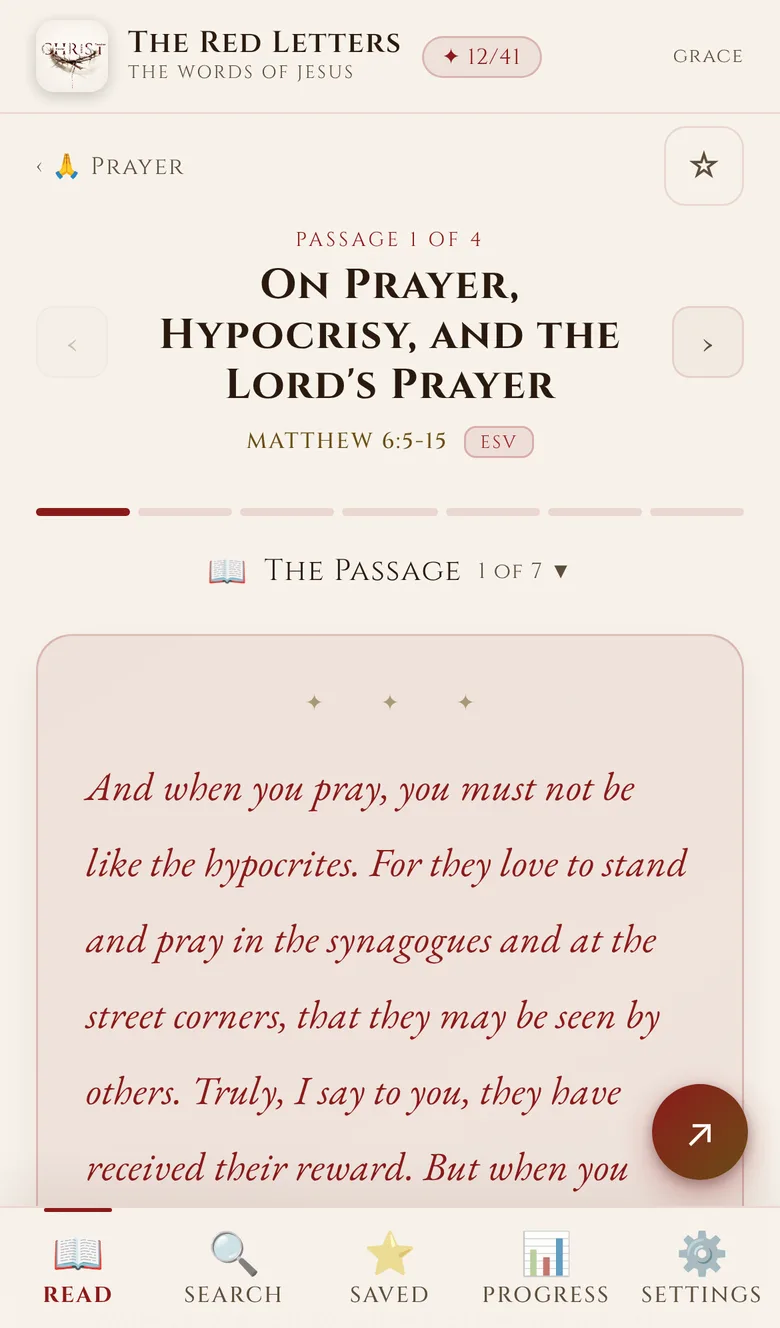
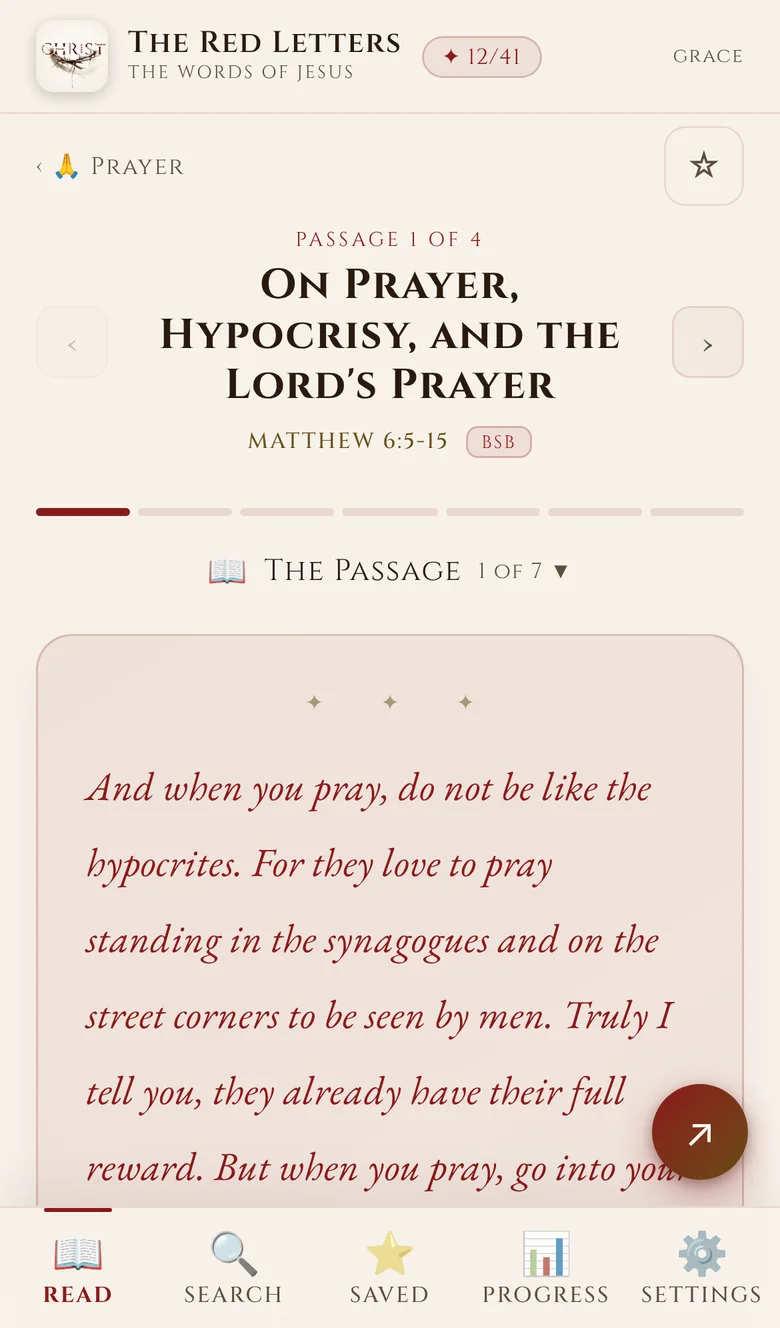
Anchored Verse and The Red Letters pages: Berean Standard Bible
Both apps now carry the BSB (public domain) in place of ESV/NKJV/NIV. Page copy,
FAQs, search data, sample verses, app screenshots and the Scripture Credits table
say so, and mention the link out to esv.org.

Claude-Session: https://claude.ai/code/session_016zkMqJgJcacXo898rxFWzc

diff --git a/anchored-verse.html b/anchored-verse.html
@@ -4,7 +4,7 @@
   <meta charset="UTF-8"/>
   <meta name="viewport" content="width=device-width, initial-scale=1.0"/>
   <title>Anchored Verse | Scripture for Every Emotion — Free App</title>
-  <meta name="description" content="A word for every weight your heart carries. A Feelings Wheel of 30 emotions, 394 Scripture verses, three translations. Find an anchor for whatever you're feeling — free."/>
+  <meta name="description" content="A word for every weight your heart carries. A Feelings Wheel of 30 emotions, 394 Scripture verses in the Berean Standard Bible. Find an anchor for whatever you're feeling — free."/>
   <meta name="keywords" content="emotion bible app, scripture for anxiety, bible verses for sadness, christian mental health app, bible app for emotions, scripture for fear, free bible app, anchored verse, elora radiance"/>
   <meta property="og:type" content="website"/>
   <meta property="og:url" content="https://eloraradiance.com/anchored-verse.html"/>
@@ -185,8 +185,8 @@
   <meta name="twitter:title" content="Anchored Verse | Scripture for Every Emotion" />
   <meta name="twitter:description" content="A word for every weight your heart carries. A Feelings Wheel of 30 emotions around 6 core feelings, anchored to 394 verses of Scripture. Free." />
   <meta name="twitter:image" content="https://eloraradiance.com/assets/anchored-verse-icon.png" />
-  <script type="application/ld+json">{"@context":"https://schema.org","@type":"SoftwareApplication","name":"Anchored Verse","applicationCategory":"ReferenceApplication","applicationSubCategory":"Bible Study","operatingSystem":"Web, iOS, Android","url":"https://verse.eloraradiance.com","description":"Emotion-indexed Scripture companion. A Feelings Wheel of 30 emotions around six core feelings (Sorrow, Fear, Anger, Struggle, Joy, Peace), 394 anchor verses, three translations (NKJV, ESV, NIV). Save anchors, share verse cards.","image":"https://eloraradiance.com/assets/anchored-verse-icon.png","publisher":{"@type":"Organization","name":"Elora Radiance Co.","legalName":"Elora Radiance Co. LLC"},"offers":{"@type":"Offer","price":"0","priceCurrency":"USD"},"featureList":"Feelings Wheel with 30 emotions around 6 core feelings, list view, 394 anchor verses, three translations (NKJV ESV NIV), saved anchors kept on your device, shareable verse cards with light and dark themes","screenshot":["https://eloraradiance.com/assets/screens/av-1-wheel.webp","https://eloraradiance.com/assets/screens/av-2-anxious.webp","https://eloraradiance.com/assets/screens/av-3-grateful.webp","https://eloraradiance.com/assets/screens/av-4-list.webp"]}</script>
-  <script type="application/ld+json">{"@context": "https://schema.org", "@type": "FAQPage", "mainEntity": [{"@type": "Question", "name": "Is it really completely free?", "acceptedAnswer": {"@type": "Answer", "text": "Yes — no credit card, no subscription, no paywall, no account required. Open the app and start using it immediately. Save anchors and share cards work without sign-up."}}, {"@type": "Question", "name": "Which translations does it include?", "acceptedAnswer": {"@type": "Answer", "text": "Three side-by-side translations: NKJV, ESV, and NIV. Switch at the top of any screen and your selection carries through every verse you read."}}, {"@type": "Question", "name": "How is this different from a regular Bible app?", "acceptedAnswer": {"@type": "Answer", "text": "Most Bible apps organize by book and chapter. Anchored Verse organizes by emotion — so when you're actually feeling anxious, lonely, grateful, or repentant, you don't have to know where to look. Pick the feeling, get the Scripture."}}, {"@type": "Question", "name": "How is the Feelings Wheel organized?", "acceptedAnswer": {"@type": "Answer", "text": "Six core emotions sit at the center, and each of the 30 feelings sits around its core: Sorrow (sad, grieving, lonely, hurt, rejected, discouraged, weary), Fear (anxious, stressed, fearful, overwhelmed, insecure), Anger (angry, frustrated, irritated, impatient, jealous), Struggle (confused, tempted, ashamed, repentant), Joy (happy, grateful, loved, hopeful) and Peace (peaceful, content, faith-filled, bold, forgiving). Tap a core to narrow it down, or tap a feeling to go straight to Scripture. A simple list view is one tap away."}}, {"@type": "Question", "name": "Can I save verses for later?", "acceptedAnswer": {"@type": "Answer", "text": "Yes. Tap Save anchor on any verse to keep it in your Saved anchors, your own growing collection of the Scriptures that have spoken to you, kept on your device. Every saved anchor includes a share button."}}, {"@type": "Question", "name": "Does it work on mobile?", "acceptedAnswer": {"@type": "Answer", "text": "Yes — any browser on iPhone, Android, iPad, or desktop. You can also add it to your home screen for an app-like experience. No download from any app store required."}}]}</script>
+  <script type="application/ld+json">{"@context":"https://schema.org","@type":"SoftwareApplication","name":"Anchored Verse","applicationCategory":"ReferenceApplication","applicationSubCategory":"Bible Study","operatingSystem":"Web, iOS, Android","url":"https://verse.eloraradiance.com","description":"Emotion-indexed Scripture companion. A Feelings Wheel of 30 emotions around six core feelings (Sorrow, Fear, Anger, Struggle, Joy, Peace), 394 anchor verses in the Berean Standard Bible. Save anchors, share verse cards.","image":"https://eloraradiance.com/assets/anchored-verse-icon.png","publisher":{"@type":"Organization","name":"Elora Radiance Co.","legalName":"Elora Radiance Co. LLC"},"offers":{"@type":"Offer","price":"0","priceCurrency":"USD"},"featureList":"Feelings Wheel with 30 emotions around 6 core feelings, list view, 394 anchor verses in the Berean Standard Bible, saved anchors kept on your device, shareable verse cards with light and dark themes","screenshot":["https://eloraradiance.com/assets/screens/av-1-wheel.webp","https://eloraradiance.com/assets/screens/av-2-anxious.webp","https://eloraradiance.com/assets/screens/av-3-grateful.webp","https://eloraradiance.com/assets/screens/av-4-list.webp"]}</script>
+  <script type="application/ld+json">{"@context": "https://schema.org", "@type": "FAQPage", "mainEntity": [{"@type": "Question", "name": "Is it really completely free?", "acceptedAnswer": {"@type": "Answer", "text": "Yes — no credit card, no subscription, no paywall, no account required. Open the app and start using it immediately. Save anchors and share cards work without sign-up."}}, {"@type": "Question", "name": "Which translation does it use?", "acceptedAnswer": {"@type": "Answer", "text": "The Berean Standard Bible (BSB): a modern, readable translation that has been released to the public domain. Every verse also has a link that opens the same passage on esv.org if you would like to read it in the ESV."}}, {"@type": "Question", "name": "How is this different from a regular Bible app?", "acceptedAnswer": {"@type": "Answer", "text": "Most Bible apps organize by book and chapter. Anchored Verse organizes by emotion — so when you're actually feeling anxious, lonely, grateful, or repentant, you don't have to know where to look. Pick the feeling, get the Scripture."}}, {"@type": "Question", "name": "How is the Feelings Wheel organized?", "acceptedAnswer": {"@type": "Answer", "text": "Six core emotions sit at the center, and each of the 30 feelings sits around its core: Sorrow (sad, grieving, lonely, hurt, rejected, discouraged, weary), Fear (anxious, stressed, fearful, overwhelmed, insecure), Anger (angry, frustrated, irritated, impatient, jealous), Struggle (confused, tempted, ashamed, repentant), Joy (happy, grateful, loved, hopeful) and Peace (peaceful, content, faith-filled, bold, forgiving). Tap a core to narrow it down, or tap a feeling to go straight to Scripture. A simple list view is one tap away."}}, {"@type": "Question", "name": "Can I save verses for later?", "acceptedAnswer": {"@type": "Answer", "text": "Yes. Tap Save anchor on any verse to keep it in your Saved anchors, your own growing collection of the Scriptures that have spoken to you, kept on your device. Every saved anchor includes a share button."}}, {"@type": "Question", "name": "Does it work on mobile?", "acceptedAnswer": {"@type": "Answer", "text": "Yes — any browser on iPhone, Android, iPad, or desktop. You can also add it to your home screen for an app-like experience. No download from any app store required."}}]}</script>
   <!-- Home Screen / PWA icons -->
   <link rel="icon" type="image/png" href="/assets/app-icon.png" />
   <link rel="apple-touch-icon" href="/assets/app-icon.png" />
@@ -233,7 +233,7 @@
     <div class="hero-stats">
       <div><span class="stat-num">30</span><span class="stat-lbl">Emotions</span></div>
       <div><span class="stat-num">394</span><span class="stat-lbl">Anchor Verses</span></div>
-      <div><span class="stat-num">3</span><span class="stat-lbl">Translations</span></div>
+      <div><span class="stat-num">6</span><span class="stat-lbl">Core Feelings</span></div>
     </div>
   </section>
 
@@ -242,7 +242,7 @@
     <div class="section-inner">
       <p class="eyebrow reveal">Inside the App</p>
       <h2 class="s-title reveal" id="inside-title">Take a Look Inside</h2>
-      <p class="s-body reveal">Tap how you feel. Get a verse and a short reflection for that moment, in the NKJV, ESV or NIV.</p>
+      <p class="s-body reveal">Tap how you feel. Get a verse and a short reflection for that moment, from the Berean Standard Bible.</p>
       <ul class="shots" tabindex="0" aria-label="Anchored Verse screenshots">
         <li class="shot reveal">
           <div class="shot-frame"><img src="assets/screens/av-1-wheel.webp" width="780" height="1328" loading="lazy" decoding="async" alt="Anchored Verse app screen: The Feelings Wheel. 30 feelings across six core emotions."/></div>
@@ -275,10 +275,10 @@
   <div style="max-width:640px;margin:0 auto;padding:0 24px 80px;">
     <div class="verse-preview reveal">
       <div class="verse-emotion">Anxious</div>
-      <p class="verse-text">“Do not be anxious about anything, but in everything by prayer and supplication with thanksgiving let your requests be made known to God.”</p>
+      <p class="verse-text">“Be anxious for nothing, but in everything, by prayer and petition, with thanksgiving, present your requests to God.”</p>
       <div class="verse-meta">
         <span class="verse-ref">Philippians 4:6</span>
-        <span class="verse-trans">ESV</span>
+        <span class="verse-trans">BSB</span>
       </div>
       <p class="verse-reflect">Anxiety lives in tomorrow. Scripture keeps pulling you back to today, where God actually is.</p>
     </div>
@@ -348,7 +348,7 @@
       <div class="features-list">
         <div class="feature reveal d1"><span class="feature-icon">🫀</span><div><div class="feature-name">Pick the Feeling</div><div class="feature-desc">Start at the center of the Feelings Wheel with the core emotion, then tap the word for what you're actually carrying. No journaling, no mood scale. Prefer a list? Switch with one tap.</div></div></div>
         <div class="feature reveal d1"><span class="feature-icon">📖</span><div><div class="feature-name">Get the Anchor</div><div class="feature-desc">A Scripture matched to that emotion appears immediately — with a short reflection that doesn't just speak to the feeling, but reframes it.</div></div></div>
-        <div class="feature reveal d2"><span class="feature-icon">🔄</span><div><div class="feature-name">Three Translations</div><div class="feature-desc">NKJV, ESV, or NIV. Toggle at the top — your choice persists across every emotion, so the Word reads in the voice that resonates with you.</div></div></div>
+        <div class="feature reveal d2"><span class="feature-icon">🔄</span><div><div class="feature-name">Clear, Faithful Wording</div><div class="feature-desc">Every verse is in the Berean Standard Bible: accurate, plain, easy to take in when your mind is already full. Prefer the ESV? One tap opens the same passage on esv.org.</div></div></div>
         <div class="feature reveal d2"><span class="feature-icon">⚓</span><div><div class="feature-name">Save Your Anchors</div><div class="feature-desc">Tap Save anchor on any verse to keep it. Build your own collection of the Scriptures that have anchored you, kept on your device whenever you need to return to them.</div></div></div>
         <div class="feature reveal d3"><span class="feature-icon">↗</span><div><div class="feature-name">Share Verse Cards</div><div class="feature-desc">Tap share to generate a beautifully styled card with the verse, reference, and emotion category. Light or dark theme. Send to a friend, post to Instagram, or save the image.</div></div></div>
         <div class="feature reveal d3"><span class="feature-icon">⚡</span><div><div class="feature-name">No Account Needed</div><div class="feature-desc">Open the app and start. No sign-up, no credit card, no friction between you and the next verse you need.</div></div></div>
@@ -357,8 +357,8 @@
   </section>
 
   <div class="quote-band">
-    <p class="q-text">"I waited patiently for the Lord; he inclined to me and heard my cry. He drew me up from the pit of destruction, out of the miry bog, and set my feet upon a rock, making my steps secure."</p>
-    <p class="q-ref">Psalm 40:1–2 · ESV — This is what Anchored Verse is for.</p>
+    <p class="q-text">"I waited patiently for the LORD; He inclined to me and heard my cry. He lifted me up from the pit of despair, out of the miry clay; He set my feet upon a rock, and made my footsteps firm."</p>
+    <p class="q-ref">Psalm 40:1–2 · BSB — This is what Anchored Verse is for.</p>
   </div>
 
   <section class="cta-section">
@@ -375,7 +375,7 @@
       <h2 style="font-family:'Oswald',sans-serif;font-size:clamp(26px,4vw,40px);font-weight:700;color:var(--navy);letter-spacing:0.02em;margin-bottom:0;">FREQUENTLY ASKED</h2>
       <div class="faq-list">
         <div class="faq-item"><button class="faq-q">Is it really completely free?<span class="faq-plus">+</span></button><div class="faq-a">Yes — no credit card, no subscription, no paywall, no account required. Open the app and start using it immediately. Save anchors and share cards work without sign-up.</div></div>
-        <div class="faq-item"><button class="faq-q">Which translations does it include?<span class="faq-plus">+</span></button><div class="faq-a">Three side-by-side translations: NKJV, ESV, and NIV. Switch at the top of any screen and your selection carries through every verse you read.</div></div>
+        <div class="faq-item"><button class="faq-q">Which translation does it use?<span class="faq-plus">+</span></button><div class="faq-a">The Berean Standard Bible (BSB): a modern, readable translation that has been released to the public domain. Every verse also has a link that opens the same passage on esv.org if you would like to read it in the ESV.</div></div>
         <div class="faq-item"><button class="faq-q">How is this different from a regular Bible app?<span class="faq-plus">+</span></button><div class="faq-a">Most Bible apps organize by book and chapter. Anchored Verse organizes by emotion — so when you're actually feeling anxious, lonely, grateful, or repentant, you don't have to know where to look. Pick the feeling, get the Scripture.</div></div>
         <div class="faq-item"><button class="faq-q">How is the Feelings Wheel organized?<span class="faq-plus">+</span></button><div class="faq-a">Six core emotions sit at the center, and each of the 30 feelings sits around its core: Sorrow (sad, grieving, lonely, hurt, rejected, discouraged, weary), Fear (anxious, stressed, fearful, overwhelmed, insecure), Anger (angry, frustrated, irritated, impatient, jealous), Struggle (confused, tempted, ashamed, repentant), Joy (happy, grateful, loved, hopeful) and Peace (peaceful, content, faith-filled, bold, forgiving). Tap a core to narrow it down, or tap a feeling to go straight to Scripture. A simple list view is one tap away.</div></div>
         <div class="faq-item"><button class="faq-q">Can I save verses for later?<span class="faq-plus">+</span></button><div class="faq-a">Yes. Tap Save anchor on any verse to keep it in your Saved anchors, your own growing collection of the Scriptures that have spoken to you, kept on your device. Every saved anchor includes a share button.</div></div>

diff --git a/red-letters.html b/red-letters.html
@@ -180,7 +180,7 @@
   <meta name="twitter:description" content="Study the complete words of Jesus — every red-letter passage organized by theme, with context, meaning, Greek word study with audio, application, prayer, and journal. Completely free." />
   <meta name="twitter:image" content="https://eloraradiance.com/assets/red-letters-icon.png" />
   <script type="application/ld+json">{"@context": "https://schema.org", "@type": "SoftwareApplication", "name": "The Red Letters", "applicationCategory": "ReferenceApplication", "applicationSubCategory": "Bible Study", "operatingSystem": "Web, iOS, Android", "url": "https://redletters.eloraradiance.com", "description": "The complete words of Jesus organized into 14 themes and 41 complete passages with Greek word study, audio pronunciation, context, meaning, application, prayer, and journal.", "image": "https://eloraradiance.com/assets/red-letters-icon.png", "publisher": {"@type": "Organization", "name": "Elora Radiance Co.", "legalName": "Elora Radiance Co. LLC"}, "offers": {"@type": "Offer", "price": "0", "priceCurrency": "USD"}, "featureList": "14 themes, 41 complete passages, Today's Words (a passage a day), seven study sections per passage, Greek word study with audio, listen to any passage read aloud, memorize tool with three methods, written prayer for each passage, personal journal, daily reminders at the time you choose", "screenshot": ["https://eloraradiance.com/assets/screens/rl-1-themes.webp", "https://eloraradiance.com/assets/screens/rl-3-passage.webp", "https://eloraradiance.com/assets/screens/rl-4-word-study.webp", "https://eloraradiance.com/assets/screens/rl-2-prayer.webp"]}</script>
-  <script type="application/ld+json">{"@context": "https://schema.org", "@type": "FAQPage", "mainEntity": [{"@type": "Question", "name": "Is it really completely free?", "acceptedAnswer": {"@type": "Answer", "text": "Yes — no credit card, no subscription, no paywall. Create a free account with your email and you have full access to every passage, every study tab, and every tool immediately."}}, {"@type": "Question", "name": "Why is it free?", "acceptedAnswer": {"@type": "Answer", "text": "The Red Letters contains the complete words of Jesus. That content should be as accessible as possible. Elora Radiance Co. makes it free as a matter of principle, not strategy."}}, {"@type": "Question", "name": "What Bible translation is used?", "acceptedAnswer": {"@type": "Answer", "text": "Passages are drawn primarily from the ESV with some NIV. Each passage shows its translation label. The focus is completeness — showing the full passage as Jesus spoke it, not isolated fragments."}}, {"@type": "Question", "name": "Do I need an account?", "acceptedAnswer": {"@type": "Answer", "text": "Yes. A free account (just your email and a password) opens the app and saves your journal entries, memorization progress, and bookmarks across devices. Already have an Anchored Steps or Armed & Anchored account? Sign in with it. One login works across every Elora Radiance app."}}, {"@type": "Question", "name": "How many passages are there?", "acceptedAnswer": {"@type": "Answer", "text": "41 complete passages across 14 themes — Prayer, Love, The Kingdom, The Cross, Discipleship, Peace & Rest, Anxiety, Truth & Freedom, The Holy Spirit, and Resurrection & Life. More are added over time."}}, {"@type": "Question", "name": "Does it work on mobile?", "acceptedAnswer": {"@type": "Answer", "text": "Yes — any browser on iPhone, Android, iPad, or desktop. No app store download needed. Your journal syncs to the cloud so your work is always saved."}}]}</script>
+  <script type="application/ld+json">{"@context": "https://schema.org", "@type": "FAQPage", "mainEntity": [{"@type": "Question", "name": "Is it really completely free?", "acceptedAnswer": {"@type": "Answer", "text": "Yes — no credit card, no subscription, no paywall. Create a free account with your email and you have full access to every passage, every study tab, and every tool immediately."}}, {"@type": "Question", "name": "Why is it free?", "acceptedAnswer": {"@type": "Answer", "text": "The Red Letters contains the complete words of Jesus. That content should be as accessible as possible. Elora Radiance Co. makes it free as a matter of principle, not strategy."}}, {"@type": "Question", "name": "What Bible translation is used?", "acceptedAnswer": {"@type": "Answer", "text": "Every passage is in the Berean Standard Bible (BSB), a modern, readable translation that has been released to the public domain. Each passage shows its translation label and has a link that opens the same reference on esv.org. The focus is completeness — showing the full passage as Jesus spoke it, not isolated fragments."}}, {"@type": "Question", "name": "Do I need an account?", "acceptedAnswer": {"@type": "Answer", "text": "Yes. A free account (just your email and a password) opens the app and saves your journal entries, memorization progress, and bookmarks across devices. Already have an Anchored Steps or Armed & Anchored account? Sign in with it. One login works across every Elora Radiance app."}}, {"@type": "Question", "name": "How many passages are there?", "acceptedAnswer": {"@type": "Answer", "text": "41 complete passages across 14 themes — Prayer, Love, The Kingdom, The Cross, Discipleship, Peace & Rest, Anxiety, Truth & Freedom, The Holy Spirit, and Resurrection & Life. More are added over time."}}, {"@type": "Question", "name": "Does it work on mobile?", "acceptedAnswer": {"@type": "Answer", "text": "Yes — any browser on iPhone, Android, iPad, or desktop. No app store download needed. Your journal syncs to the cloud so your work is always saved."}}]}</script>
   
   <!-- Home Screen / PWA icons -->
   <link rel="icon" type="image/png" href="/assets/app-icon.png" />
@@ -273,8 +273,8 @@
 
   <div style="max-width:700px;margin:0 auto;padding:0 24px 80px;">
     <div class="passage-card reveal">
-      <p class="passage-text">Come to me, all who labor and are heavy laden, and I will give you rest. Take my yoke upon you, and learn from me, for I am gentle and lowly in heart, and you will find rest for your souls. For my yoke is easy, and my burden is light.</p>
-      <p class="passage-ref">Matthew 11:28–30 · ESV · Theme: Peace &amp; Rest</p>
+      <p class="passage-text">Come to Me, all you who are weary and burdened, and I will give you rest. Take My yoke upon you and learn from Me, for I am gentle and humble in heart, and you will find rest for your souls. For My yoke is easy and My burden is light.</p>
+      <p class="passage-ref">Matthew 11:28–30 · BSB · Theme: Peace &amp; Rest</p>
     </div>
   </div>
 
@@ -320,8 +320,8 @@
   </section>
 
   <div class="quote-band">
-    <p class="q-text">"If you abide in my word, you are truly my disciples, and you will know the truth, and the truth will set you free."</p>
-    <p class="q-ref">John 8:31–32 · ESV — This is what The Red Letters is for.</p>
+    <p class="q-text">"If you continue in My word, you are truly My disciples. Then you will know the truth, and the truth will set you free."</p>
+    <p class="q-ref">John 8:31–32 · BSB — This is what The Red Letters is for.</p>
   </div>
 
   <section class="cta-section">
@@ -339,7 +339,7 @@
       <div class="faq-list">
         <div class="faq-item"><button class="faq-q">Is it really completely free?<span class="faq-plus">+</span></button><div class="faq-a">Yes — no credit card, no subscription, no paywall. Create a free account with your email and you have full access to every passage, every study tab, and every tool immediately.</div></div>
         <div class="faq-item"><button class="faq-q">Why is it free?<span class="faq-plus">+</span></button><div class="faq-a">The Red Letters contains the complete words of Jesus. That content should be as accessible as possible. Elora Radiance Co. makes it free as a matter of principle, not strategy.</div></div>
-        <div class="faq-item"><button class="faq-q">What Bible translation is used?<span class="faq-plus">+</span></button><div class="faq-a">Passages are drawn primarily from the ESV with some NIV. Each passage shows its translation label. The focus is completeness — showing the full passage as Jesus spoke it, not isolated fragments.</div></div>
+        <div class="faq-item"><button class="faq-q">What Bible translation is used?<span class="faq-plus">+</span></button><div class="faq-a">Every passage is in the Berean Standard Bible (BSB), a modern, readable translation that has been released to the public domain. Each passage shows its translation label and has a link that opens the same reference on esv.org. The focus is completeness — showing the full passage as Jesus spoke it, not isolated fragments.</div></div>
         <div class="faq-item"><button class="faq-q">Do I need an account?<span class="faq-plus">+</span></button><div class="faq-a">Yes. A free account (just your email and a password) opens the app and saves your journal entries, memorization progress, and bookmarks across devices. Already have an Anchored Steps or Armed &amp; Anchored account? <a href="https://redletters.eloraradiance.com" style="color:var(--gold)">Sign in</a> with it. One login works across every Elora Radiance app.</div></div>
         <div class="faq-item"><button class="faq-q">How many passages are there?<span class="faq-plus">+</span></button><div class="faq-a">41 complete passages across 14 themes — Prayer, Love, The Kingdom, The Cross, Discipleship, Peace &amp; Rest, Anxiety, Truth &amp; Freedom, The Holy Spirit, and Resurrection &amp; Life. More are added over time.</div></div>
         <div class="faq-item"><button class="faq-q">Does it work on mobile?<span class="faq-plus">+</span></button><div class="faq-a">Yes — any browser on iPhone, Android, iPad, or desktop. No app store download needed. Your journal syncs to the cloud so your work is always saved.</div></div>

diff --git a/scripture-credits.html b/scripture-credits.html
@@ -61,7 +61,7 @@
   <main>
     <p class="eyebrow">Elora Radiance Co.</p>
     <h1>Scripture Credits</h1>
-    <p class="updated">Updated November 11, 2026</p>
+    <p class="updated">Updated November 24, 2026</p>
 
     <div class="summary">
       <p>Our apps and this website quote several Bible translations. Each quotation is marked with its translation, and the publishers require the notices below. Inside each app, the same notices are under Settings → Scripture Credits (in Anchored Verse, tap Scripture credits at the bottom of the home screen).</p>
@@ -73,10 +73,10 @@
         <tr><td>Anchored Steps · Year 1</td><td>ESV, NIV, NKJV, NLT, KJV</td></tr>
         <tr><td>Anchored Steps · Year 2</td><td>NIV (one verse from the KJV, marked)</td></tr>
         <tr><td>Armed &amp; Anchored</td><td>ESV, NIV, NKJV, KJV</td></tr>
-        <tr><td>The Red Letters</td><td>ESV</td></tr>
-        <tr><td>Anchored Verse</td><td>ESV, NIV, NKJV</td></tr>
+        <tr><td>The Red Letters</td><td>BSB</td></tr>
+        <tr><td>Anchored Verse</td><td>BSB</td></tr>
         <tr><td>The Living Planner</td><td>NIV unless marked; ESV, NKJV, KJV (marked)</td></tr>
-        <tr><td>This website</td><td>ESV, NIV, NKJV</td></tr>
+        <tr><td>This website</td><td>ESV, NIV, NKJV, BSB</td></tr>
       </tbody>
     </table>
 
@@ -91,6 +91,9 @@
 
     <h2 id="nlt">New Living Translation (NLT)</h2>
     <p>Scripture quotations marked (NLT) are taken from the Holy Bible, New Living Translation, copyright ©1996, 2004, 2015 by Tyndale House Foundation. Used by permission of Tyndale House Publishers, Carol Stream, Illinois 60188. All rights reserved.</p>
+
+    <h2 id="bsb">Berean Standard Bible (BSB)</h2>
+    <p>Scripture quotations marked (BSB) are from the Holy Bible, Berean Standard Bible, which has been dedicated to the public domain. berean.bible</p>
 
     <h2 id="kjv">King James Version (KJV)</h2>
     <p>Scripture quotations marked (KJV) are from the King James Version, which is in the public domain in the United States.</p>
